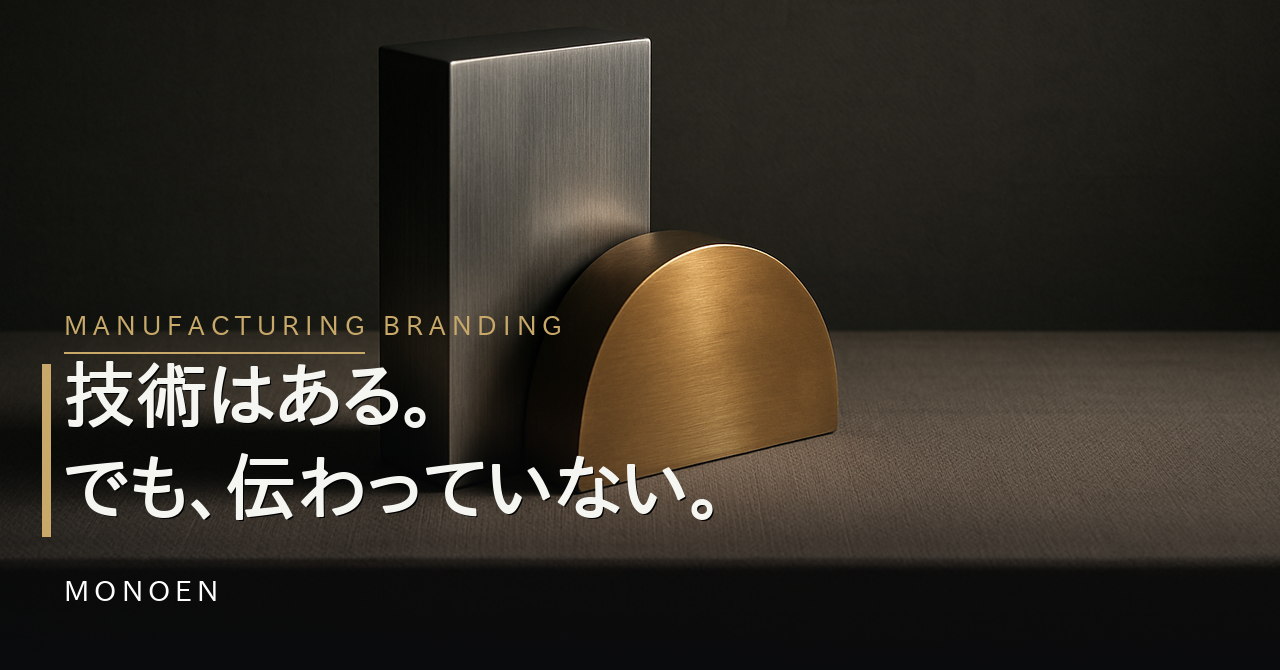
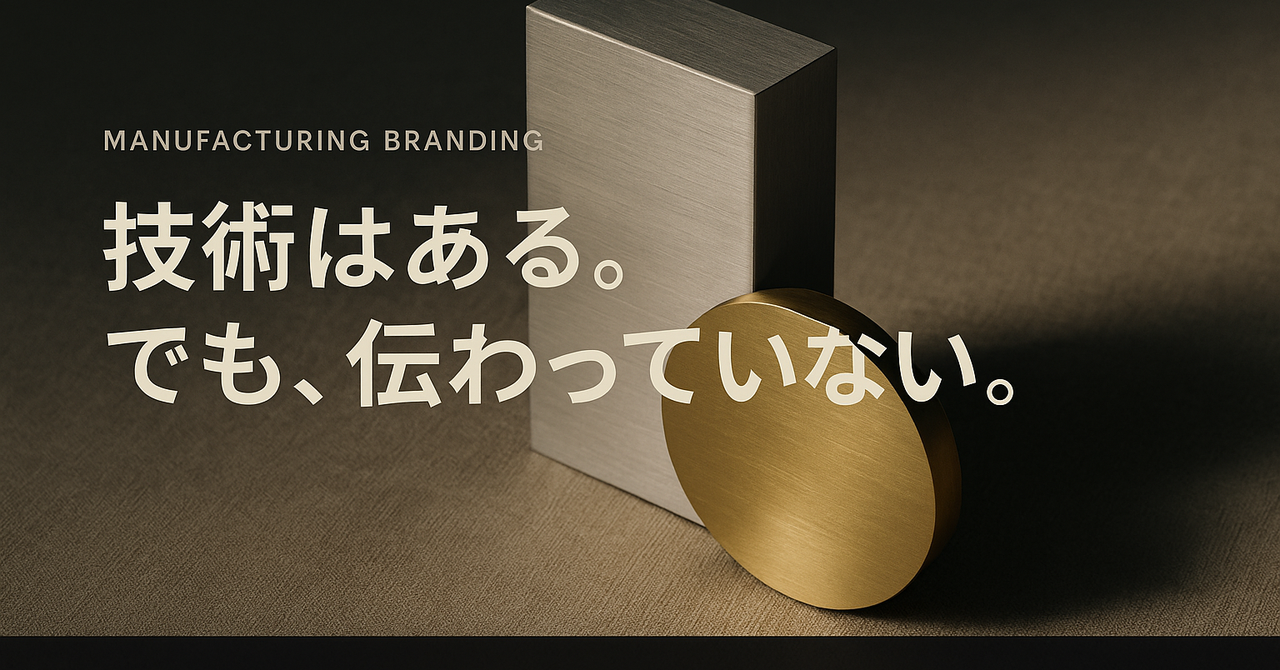
Eyecatch: switch to GPT one-shot (text rendered by gpt-image-1) + verify loop
Per request, generate the thumbnail — background AND Japanese text — in a
single gpt-image-1 call instead of compositing text with Pillow. New
--text/--eyebrow/--brand args embed exact text into the prompt. Because image
models can garble text, /note-daily now visually verifies the rendered text
and regenerates (up to 2x) if any character is wrong; high quality recommended
for Japanese fidelity. Updated eyecatch spec, daily command, .env.example, and
regenerated the P1-000 sample.

Claude-Session: https://claude.ai/code/session_01NxLYB8m4bY97JAv5mJK358

diff --git a/scripts/generate_eyecatch.py b/scripts/generate_eyecatch.py
@@ -1,25 +1,25 @@
 #!/usr/bin/env python3
 # -*- coding: utf-8 -*-
 """
-generate_eyecatch.py — アイキャッチ/サムネイル生成（OpenAI gpt-image-1 ＋ 日本語テキスト合成）
+generate_eyecatch.py — アイキャッチ/サムネイル生成（OpenAI gpt-image-1 一発生成）
 
-方針:
-  - 背景は gpt-image-1 で「上質・ミニマル・ブランド準拠」に生成（テキストは入れさせない=文字化け回避）
-  - その上に Pillow で日本語テキスト（フック＋カテゴリ＋MONOENワードマーク）を高解像で合成
-    → note のフィードで目を引く「クリックしたくなるサムネ」に。ブランドは崩さない。
-  - note 推奨 1280x670（1.91:1）で出力。
+方針（ユーザー選択）:
+  - 背景も日本語テキストも gpt-image-1 に「一気に」描かせる（後処理でのテキスト合成はしない）。
+  - --text / --eyebrow / --brand を渡すと、それらを「画像内に正確に描くテキスト」として
+    プロンプトへ埋め込む。
+  - note 推奨 1280x670（1.91:1）へクロップして出力。
   - APIキー無し/コスト上限超過/失敗 時はスキップ（記事は画像なしでも公開可）。
 
 使い方:
   python3 generate_eyecatch.py --prompt-file p.txt --out out.png \
-      --text "価格で戦わない\n製造業ブランディング" --eyebrow "MANUFACTURING BRANDING"
-  （--text 未指定なら従来どおりテキストなしの静物画像）
+      --text "技術はある。でも、伝わっていない。" --eyebrow "MANUFACTURING BRANDING" --brand MONOEN
 
 環境変数:
   OPENAI_API_KEY / OPENAI_IMAGE_MODEL(既定 gpt-image-1) / OPENAI_IMAGE_QUALITY(high|medium|low)
   IMAGE_COST_CEILING_USD(既定 0.30)
-  EYECATCH_FONT      日本語フォントパス（既定: IPAPGothic）
-  EYECATCH_ACCENT    アクセント色 hex（既定 #C8A96A ブラス）
+
+注意: 画像モデルによる日本語テキストは、稀に字形が崩れることがあります。品質重視の場合は
+      OPENAI_IMAGE_QUALITY=high を推奨（コストは上がります）。
 """
 import argparse
 import base64
@@ -30,14 +30,6 @@ from pathlib import Path
 COST_ESTIMATE_USD = {"low": 0.02, "medium": 0.07, "high": 0.19}
 GEN_SIZE = "1536x1024"
 TARGET_W, TARGET_H = 1280, 670
-
-FONT_CANDIDATES = [
-    os.getenv("EYECATCH_FONT", ""),
-    "/usr/share/fonts/opentype/ipafont-gothic/ipagp.ttf",
-    "/usr/share/fonts/opentype/ipafont-gothic/ipag.ttf",
-    "/usr/share/fonts/truetype/fonts-japanese-gothic.ttf",
-]
-ACCENT = os.getenv("EYECATCH_ACCENT", "#C8A96A")
 
 
 def _load_env():
@@ -55,22 +47,31 @@ def _fail(msg, code=2):
     sys.exit(code)
 
 
-def _font_path():
-    for p in FONT_CANDIDATES:
-        if p and Path(p).exists():
-            return p
-    return None
+def build_text_block(text, eyebrow, brand):
+    """画像内に正確に描かせる日本語テキストの指示を作る。"""
+    lines = []
+    lines.append(
+        "IMPORTANT — render the following text directly ON the image as crisp, "
+        "legible typography. Reproduce every character EXACTLY as written; do NOT "
+        "translate, alter, omit, or add any characters. The Japanese must be perfectly accurate."
+    )
+    if eyebrow:
+        lines.append(f'- Small kicker label (uppercase, letter-spaced, small), text: "{eyebrow}"')
+    if text:
+        disp = text.replace("\\n", " / ")
+        lines.append(f'- Main headline (large, bold, Japanese, may wrap to 2 lines), text: "{disp}"')
+    if brand:
+        lines.append(f'- Wordmark in a bottom corner (small, refined), text: "{brand}"')
+    lines.append(
+        "Typography: elegant modern sans-serif (Japanese Gothic for the Japanese text). "
+        "Place the text over a calm, darker area of the composition with strong contrast so it is "
+        "easily readable at thumbnail size. Left-aligned, generous margins, premium editorial layout. "
+        "Keep it minimal and on-brand — do NOT make it look like a loud advertisement."
+    )
+    return "\n".join(lines)
 
 
-def _hex(c):
-    c = c.lstrip("#")
-    return tuple(int(c[i:i + 2], 16) for i in (0, 2, 4))
-
-
-# --------------------------------------------------------------------------- #
-# 画像整形
-# --------------------------------------------------------------------------- #
-def crop_to_note(src_bytes: bytes):
+def crop_to_note(src_bytes: bytes, out_path: Path):
     from io import BytesIO
     from PIL import Image
     img = Image.open(BytesIO(src_bytes)).convert("RGB")
@@ -83,118 +84,32 @@ def crop_to_note(src_bytes: bytes):
     else:
         nh = int(w / tr); top = (h - nh) // 2
         img = img.crop((0, top, w, top + nh))
-    return img.resize((TARGET_W, TARGET_H), Image.LANCZOS)
+    img = img.resize((TARGET_W, TARGET_H), Image.LANCZOS)
+    out_path.parent.mkdir(parents=True, exist_ok=True)
+    img.save(out_path, "PNG", optimize=True)
 
 
-def _wrap(draw, text, font, maxw):
-    """日本語向け：明示改行を尊重しつつ、幅に収まるよう文字単位で折り返す。"""
-    lines = []
-    for raw in text.replace("\\n", "\n").split("\n"):
-        if not raw:
-            lines.append("")
-            continue
-        cur = ""
-        for ch in raw:
-            if draw.textlength(cur + ch, font=font) <= maxw:
-                cur += ch
-            else:
-                lines.append(cur); cur = ch
-        if cur:
-            lines.append(cur)
-    return lines[:3]  # 最大3行
-
-
-def overlay_thumbnail(img, hook, eyebrow=None, brand="MONOEN"):
-    """プレミアムな下部スクリム＋日本語テキストを合成。"""
-    from PIL import Image, ImageDraw, ImageFont
-    fpath = _font_path()
-    if not fpath:
-        print("[eyecatch] WARN: 日本語フォントが見つからずテキスト合成をスキップ", file=sys.stderr)
-        return img
-
-    img = img.convert("RGBA")
-    W, H = img.size
-    accent = _hex(ACCENT)
-    margin = 64
-
-    # --- 下部グラデーションスクリム（可読性確保・上品に）---
-    scrim_h = int(H * 0.66)
-    grad = Image.new("L", (1, scrim_h), 0)
-    px = grad.load()
-    for y in range(scrim_h):
-        px[0, y] = int(238 * (y / scrim_h) ** 1.5)
-    grad = grad.resize((W, scrim_h))
-    scrim = Image.new("RGBA", (W, scrim_h), (10, 11, 13, 255))
-    scrim.putalpha(grad)
-    img.alpha_composite(scrim, (0, H - scrim_h))
-
-    draw = ImageDraw.Draw(img)
-
-    # フォントサイズ（フック文字数で自動調整）
-    hook_size = 84 if len(hook.replace("\\n", "").replace("\n", "")) <= 12 else (72 if len(hook) <= 20 else 60)
-    hook_font = ImageFont.truetype(fpath, hook_size)
-    eb_font = ImageFont.truetype(fpath, 26)
-    brand_font = ImageFont.truetype(fpath, 28)
-
-    maxw = int(W * 0.80)
-    lines = _wrap(draw, hook, hook_font, maxw)
-    line_h = int(hook_size * 1.28)
-
-    # レイアウト：下から wordmark → hook → eyebrow の順に積む
-    y_brand = H - margin - 30
-    hook_block_h = line_h * len(lines)
-    y_hook_bottom = y_brand - 34
-    y_hook_top = y_hook_bottom - hook_block_h
-    y_eyebrow = y_hook_top - 46
-
-    # eyebrow（小さめ・字間広め・アクセント色）＋ 直下に細い罫
-    if eyebrow:
-        ex = margin
-        for chx in eyebrow.upper():
-            draw.text((ex, y_eyebrow), chx, font=eb_font, fill=accent + (255,))
-            ex += draw.textlength(chx, font=eb_font) + 6
-        draw.line([(margin, y_eyebrow + 40), (margin + 300, y_eyebrow + 40)],
-                  fill=accent + (180,), width=2)
-
-    # 左端の縦アクセントバー（エディトリアルなアクセント）
-    draw.rectangle([margin - 22, y_hook_top + 6, margin - 14, y_hook_bottom - 6],
-                   fill=accent + (255,))
-
-    # フック本文（微かな影で可読性を上げつつ、太めに見せる）
-    y = y_hook_top
-    for ln in lines:
-        draw.text((margin + 2, y + 2), ln, font=hook_font, fill=(0, 0, 0, 120))          # shadow
-        draw.text((margin, y), ln, font=hook_font, fill=(245, 245, 242, 255),
-                  stroke_width=1, stroke_fill=(245, 245, 242, 255))                        # faux-bold
-        y += line_h
-
-    # ワードマーク（MONOEN・字間広め・控えめな白）
-    bx = margin
-    for chx in brand:
-        draw.text((bx, y_brand), chx, font=brand_font, fill=(255, 255, 255, 210))
-        bx += draw.textlength(chx, font=brand_font) + 5
-
-    return img.convert("RGB")
-
-
-# --------------------------------------------------------------------------- #
 def main():
     _load_env()
     ap = argparse.ArgumentParser()
     ap.add_argument("--prompt-file")
     ap.add_argument("--prompt")
     ap.add_argument("--out", required=True)
-    ap.add_argument("--text", help="サムネのフック文（\\n で改行可）。未指定ならテキストなし")
-    ap.add_argument("--eyebrow", help="カテゴリ等の小見出し（英字推奨）")
+    ap.add_argument("--text", help="画像内に描く日本語フック（\\n 可）")
+    ap.add_argument("--eyebrow", help="小見出し（英字カテゴリ推奨）")
     ap.add_argument("--brand", default="MONOEN")
     args = ap.parse_args()
 
     if args.prompt:
-        prompt = args.prompt
+        base = args.prompt
     elif args.prompt_file and Path(args.prompt_file).exists():
-        prompt = Path(args.prompt_file).read_text(encoding="utf-8").strip()
+        base = Path(args.prompt_file).read_text(encoding="utf-8").strip()
     else:
         _fail("プロンプトがありません（--prompt か --prompt-file）")
+
+    prompt = base
+    if args.text or args.eyebrow:
+        prompt = base + "\n\n" + build_text_block(args.text, args.eyebrow, args.brand)
 
     api_key = os.getenv("OPENAI_API_KEY")
     if not api_key:
@@ -219,17 +134,12 @@ def main():
         _fail(f"画像API失敗: {e}")
 
     try:
-        img = crop_to_note(raw)
-        if args.text:
-            img = overlay_thumbnail(img, args.text, args.eyebrow, args.brand)
-        out = Path(args.out)
-        out.parent.mkdir(parents=True, exist_ok=True)
-        img.save(out, "PNG", optimize=True)
+        crop_to_note(raw, Path(args.out))
     except Exception as e:
         Path(args.out).with_suffix(".raw.png").write_bytes(raw)
-        _fail(f"整形/合成失敗（生画像を .raw.png で保存）: {e}")
+        _fail(f"整形失敗（生画像を .raw.png で保存）: {e}")
 
-    txt = "＋テキスト合成" if args.text else "テキストなし"
+    txt = "テキスト入り一発生成" if (args.text or args.eyebrow) else "テキストなし"
     print(f"[eyecatch] OK: {args.out}  ({model}/{quality}, {txt}, est≈${est:.2f})")
 
 

diff --git a/prompts/40-eyecatch-prompt.md b/prompts/40-eyecatch-prompt.md
@@ -1,25 +1,30 @@
-# STEP 4 プロンプト｜アイキャッチ（サムネ）設計
+# STEP 4 プロンプト｜アイキャッチ（サムネ）設計 — GPT一発生成
 
-作り方は2層構造です：
-1. **背景**：`gpt-image-1` で上質・ミニマルな画像を生成（**画像には文字を入れさせない**＝日本語の文字化け回避）。
-2. **テキスト**：`scripts/generate_eyecatch.py` が Pillow で日本語フック＋カテゴリ＋MONOENワードマークを**鮮明に合成**。
+背景も日本語テキストも **gpt-image-1 に一度に描かせます**（後処理での文字合成はしない＝ユーザー選択）。
+`scripts/generate_eyecatch.py` に `--text`（フック）/`--eyebrow`（カテゴリ）/`--brand` を渡すと、
+それらを「画像内に正確に描くテキスト」としてプロンプトへ埋め込みます。
+`metadata.json` の `eyecatch_brief`（背景の主題）・`eyecatch_text`・`eyecatch_eyebrow` を使用。
+最終出力 1280×670（1.91:1）。**フィードで目を引きつつブランドの品位を保つ**のが狙い。
 
-`metadata.json` の `eyecatch_brief`（背景の主題）・`eyecatch_text`（フック）・`eyecatch_eyebrow`（カテゴリ）を使います。
-最終出力は 1280×670（1.91:1）。**noteのフィードで目を引きつつ、ブランドの品位を保つ**のが狙い。
+## ⚠ 文字化けの検証（必須）
+画像モデルは稀に文字を崩します（特に英字・長い文）。**生成後に必ず画像を目視で読み**、
+`--text`/`--eyebrow` と一字一句一致しているか確認する。崩れていたら**再生成（最大2回）**。
+- 2回試しても英字が崩れる場合：`--eyebrow` を短く/簡単な語にする、または省略する。
+- それでも崩れる場合：`--text` のみ（日本語は比較的安定）にする、最終的に画像なしでも公開可。
+- 品質重視なら `OPENAI_IMAGE_QUALITY=high`（日本語の再現性が上がる／コスト増）。
 
 ## ブランドのビジュアル原則（背景画像）
 - MONOENのコアアイデア「**無機物に、生命を。技術に、物語を。**」を視覚化する。
 - 工業（金属・工具・工場）× 物語性（光・質感・静けさ・品格）の掛け合わせ。
 - 和製LVMH＝**上質・ミニマル・エディトリアル**。安っぽいストックフォト感やコラージュ感を避ける。
 - 実在の商品・ロゴ・工程を**具体的に再現しない**（誤認防止）。抽象・象徴表現にする。
-- **背景画像に文字を入れさせない**（テキストは後段でPillow合成。AIに日本語を描かせない）。
-- **構図**：被写体は上2/3・やや右。**下1/3は静かで暗め**にし、テキスト合成の余白を確保する。
+- テキストは画像内に一発で描かせる。**被写体は片側（右など）に寄せ、反対側にテキスト用の静かで暗い面**を作る。
 
 ## トーン&マナー
 - 配色：素材の質感を活かした落ち着いたトーン（鉄・真鍮・生成り・墨・自然光）。差し色は控えめ。
-- 構図：横長1.91:1。被写体は中央〜やや左、右側に余白（タイトルが乗る想定）。
+- 構図：横長1.91:1。被写体を片側に寄せ、テキスト側（見出しが乗る側）を暗く空ける。
 - 照明：やわらかな自然光/スタジオ光。硬い影を避け、静謐で上質に。
-- 画角：マクロ〜寄りのエディトリアル。俯瞰の平置き（フラットレイ）も可。
+- 文字：日本語ゴシックで太め・可読性重視。背景とのコントラストを確保。
 
 ## テーマ別モチーフの指針（例）
 - ブランディング/リブランディング系 → 素材や道具が光の中で佇む静物、変化・磨きの象徴
@@ -29,21 +34,21 @@
 - 海外・地域・共創 → 広がり・地平・結節点の抽象
 - 思想・用語・FAQ → ミニマルな幾何・余白の効いたエディトリアル
 
-## 出力（`eyecatch_prompt.txt` に英語で1つ）
+## 出力（`eyecatch_prompt.txt` に英語で1つ＝背景の指示）
 
-テンプレート（英語で具体化して書く）:
+テンプレート（英語で具体化。**テキストはここに書かず**、`--text`/`--eyebrow` でスクリプトが追記する）:
 ```
 Editorial hero image, 1.91:1 landscape, for a premium Japanese manufacturing/branding article.
 Subject: <記事テーマを象徴する抽象/静物のモチーフ>.
-Style: refined, minimal, LVMH-like editorial, quiet and premium; material textures of <steel / brass / natural fiber / ink>.
-Lighting: soft natural light, gentle shadows, calm and sophisticated.
-Composition: subject center-left, clean negative space on the right for a title overlay.
+Composition: place the subject on one side; keep the opposite side a calm, darker surface to hold a headline.
+Style: refined, minimal, LVMH-like editorial, quiet and premium; material textures of <steel / brass / natural fiber>.
+Lighting: soft directional light, gentle shadows, calm and sophisticated.
 Mood: "giving life to the inorganic; giving story to technology."
-No text, no logos, no readable brand marks, do not depict real identifiable products or real people's faces.
+Do not depict real identifiable products, brand logos, or real people's faces.
 Color palette: muted, material-driven, restrained accent.
 ```
 
-## 実行（テキスト合成つき）
+## 実行（GPT一発・テキスト込み）
 ```
 python3 scripts/generate_eyecatch.py \
   --prompt-file <articleディレクトリ>/eyecatch_prompt.txt \
@@ -52,6 +57,6 @@ python3 scripts/generate_eyecatch.py \
   --eyebrow "<metadata.eyecatch_eyebrow>" \
   --brand "MONOEN"
 ```
-- `--text` を渡すと下部スクリム＋日本語フック＋カテゴリ＋ワードマークを合成（サムネ化）。
-- 日本語フォントは IPAGothic を自動使用（`EYECATCH_FONT` で変更可）。アクセント色は `EYECATCH_ACCENT`（既定ブラス）。
-- 失敗・APIキー無し・コスト上限超過はスキップし、`eyecatch_prompt.txt` を残して警告（記事は画像なしでも公開可）。フォント不在時はテキストなしで背景のみ出力。
+- スクリプトが `--text`/`--eyebrow`/`--brand` を「画像内に正確に描く」指示としてプロンプトへ追記し、gpt-image-1が一発生成。
+- **生成後に必ず画像を目視検証**（上の「文字化けの検証」）。崩れていたら再生成。
+- 失敗・APIキー無し・コスト上限超過はスキップし、`eyecatch_prompt.txt` を残して警告（記事は画像なしでも公開可）。
